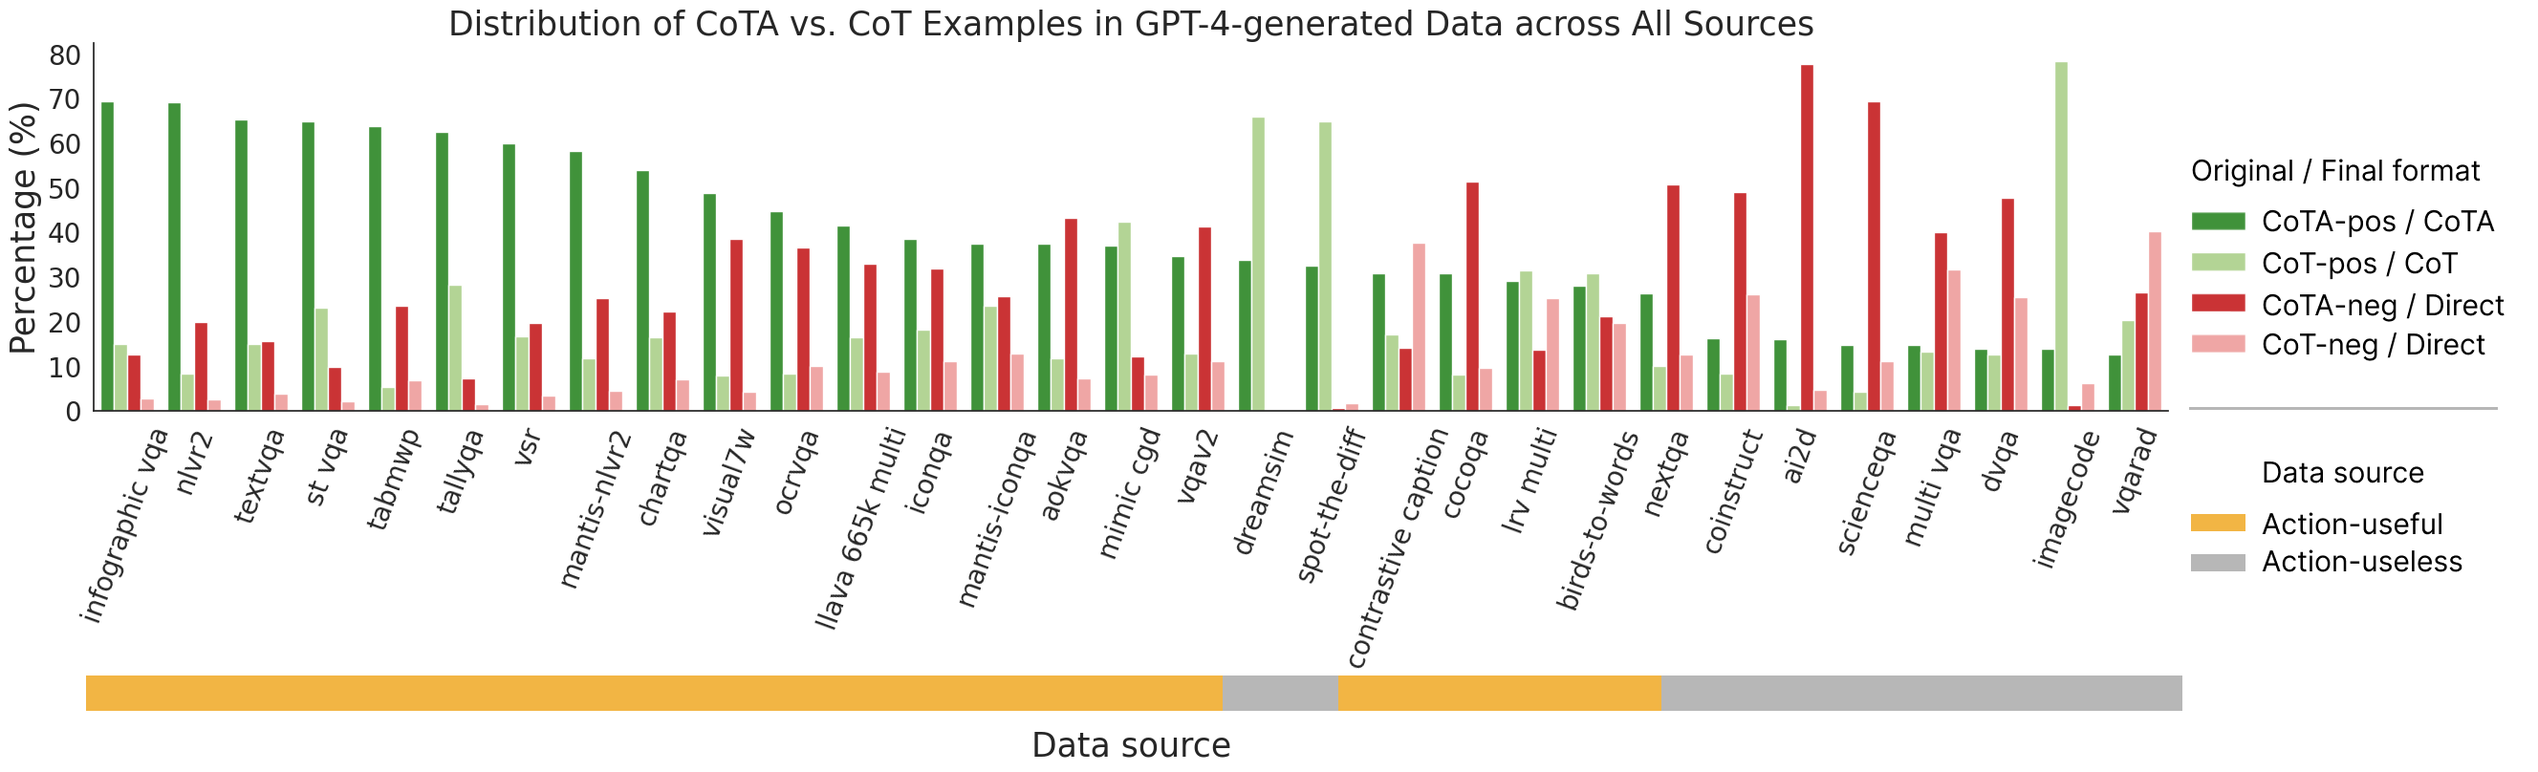
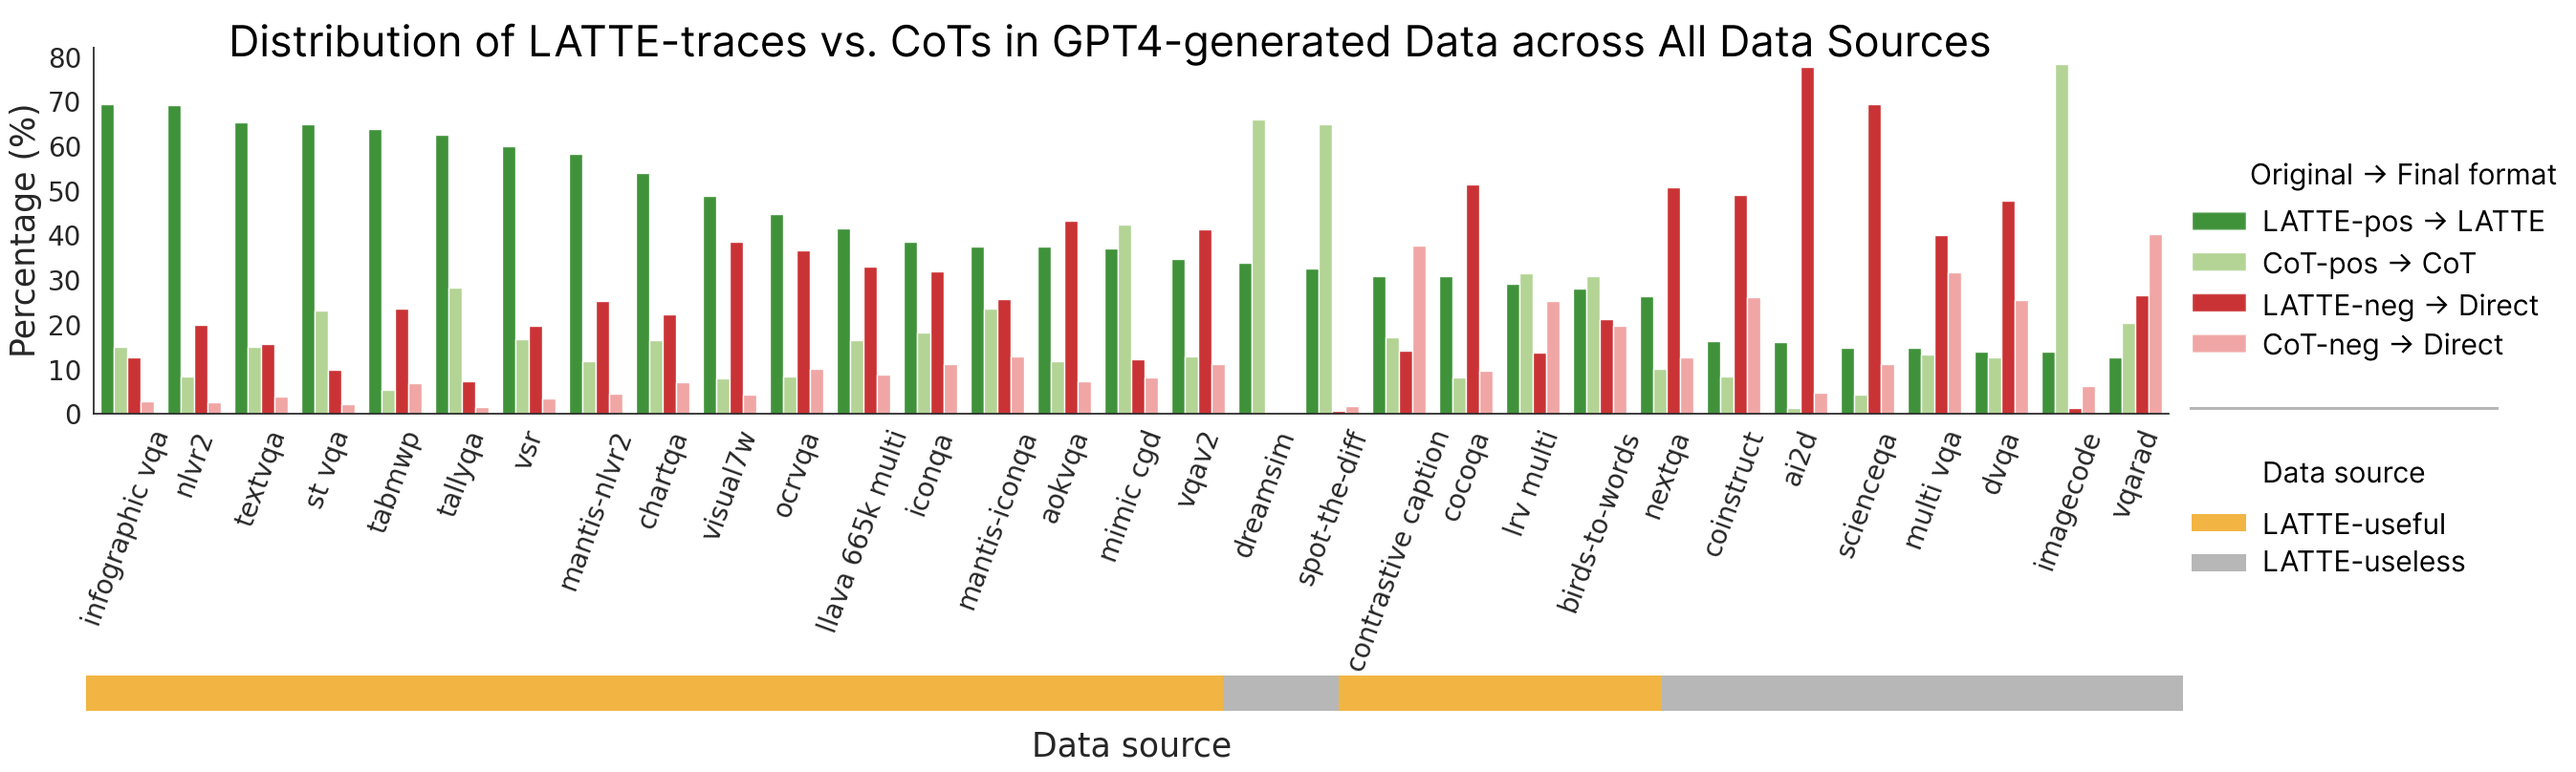
updated website

diff --git a/index.html b/index.html
@@ -3,10 +3,10 @@
 <head>
   <meta charset="utf-8">
   <meta name="description"
-        content="🌮TACO: Learning Multi-modal Action Models with Synthetic Chains-of-Thought-and-Action">
-  <meta name="keywords" content="taco, multi-model model, agent, synthetic data">
+        content="LATTE: Learning to Think with Vision Specialists">
+  <meta name="keywords" content="multi-modal model, agent, synthetic data">
   <meta name="viewport" content="width=device-width, initial-scale=1">
-  <title>TACO</title>
+  <title>LATTE</title>
 
   <!-- Global site tag (gtag.js) - Google Analytics -->
   <script async src="https://www.googletagmanager.com/gtag/js?id=G-PYVRSFMDRL"></script>
@@ -63,7 +63,7 @@
   </div>
   <div class="navbar-menu">
     <div class="navbar-start" style="flex-grow: 1; justify-content: center;">
-      <a class="navbar-item" href="https://keunhong.com">
+      <a class="navbar-item" href="https://zixianma.github.io/">
       <span class="icon">
           <i class="fas fa-home"></i>
       </span>
@@ -96,14 +96,13 @@
     <div class="container is-max-desktop">
       <div class="columns is-centered">
         <div class="column has-text-centered">
-            <h1 class="title is-1 publication-title is-bold">
-              <img src="./static/images/taco.png" style="width:1em;vertical-align: middle" alt="Logo">
-              <span  style="vertical-align: middle">TACO</span>
+            <h1 class="subtitle is-1 publication-title is-bold">
+              <img src="./static/images/latte.png" style="width:1em;vertical-align: middle" alt="Logo">
+              <span  style="vertical-align: middle">LATTE </br>LeArning to Think wiTh Vision SpEcialists</span>
             </h1>
-
-            <h1 class="subtitle is-3 publication-title">
+            <!-- <h1 class="subtitle is-3 publication-title">
               Learning Multi-modal Action Models </br> with Synthetic Chains-of-Thought-and-Action 
-            </h1>
+            </h1> -->
              
           <div class="is-size-5 publication-authors">
             <span class="author-block">
@@ -220,9 +219,10 @@
   <div class="container is-max-desktop">
     <div class="hero-body">
       <!-- <h2 class=" title is-3">How does it work?</h2> -->
-      <video controls="" height="100%" poster="./static/videos/video_thumbnail.png">
+       <img src="./static/images/framework.png" alt="teaser image" class="is-fullwidth">
+      <!-- <video controls="" height="100%" poster="./static/videos/video_thumbnail.png">
         <source src="./static/videos/taco_video.mp4#t=7.0" fetchpriority="high" type="video/mp4">
-      </video>
+      </video> -->
     </div>
   </div>
 </section>
@@ -235,16 +235,9 @@
         <h2 class="title is-3">Abstract</h2>
         <div class="content has-text-justified">
           <p class="subtitle">
-            We present TACO, a family of multi-modal large action models designed to improve performance on such complex, multi-step and multi-modal tasks. 
-            During inference, TACO produces chains-of-thought-and-action (CoTA), executes intermediate steps by invoking external tools such as OCR, 
-            depth estimation and calculator, then integrates both the thoughts and action outputs to produce coherent responses.
-            To train TACO, we create a large dataset of 1M+ synthetic CoTA traces generated with GPT-4o and Python programs. 
-            We then experiment with various data filtering and mixing techniques and obtain a final subset of 293K high-quality CoTA examples.  
-            This dataset enables TACO to learn complex reasoning and action paths, surpassing existing models trained on instruct tuning data with 
-            only direct answers. Our model TACO outperforms the instruction-tuned baseline across 8 benchmarks, achieving a 3.6% 
-            improvement on average, with gains up to 15% in MMVet tasks involving OCR, mathematical reasoning and spatial reasoning. 
-            Training on high-quality CoTA traces sets a new standard for complex multi-modal reasoning, highlighting the need for structured, 
-            multi-step instruction tuning in advancing open-source mutli-modal models' capabilities.
+           While open-source vision-language models perform well on simple question-answering, they
+            still struggle with complex questions that require both perceptual and reasoning capabilities. 
+            We propose LATTE, a family of vision-language models that have LeArned to Think wiTh vision spEcialists. By offloading perception to state-of-the-art vision models, our approach enables vision-language models to focus solely on reasoning over high-quality per-ceptual information. To train LATTE, we synthesize and filter a large dataset of 273K multi-modal reasoning traces over perceptual outputs of vision specialists. LATTE trained on this data achieves significant gains over baselines across 6 benchmarks covering both perception and reasoning abilities. Ablation studies reveal that the effectiveness of multi-modal reasoning traces depends on the data sources, formats, and quality of thoughts.
           </p>
         </div>
       </div>
@@ -258,8 +251,9 @@
     <div class="hero-body">
       <img src="./static/images/teaser.png">
       <p class="subtitle">
-        Figure 1. TACO outputs a Chain-of-Thought-and-Action (CoTA) and answers challenging questions based on the thoughts and action outputs, whereas existing multi-modal
-        large language models can only output direct answers and often fail to reach the correct answers.
+        Figure 1. <b>Example outputs of LATTE vs. SoTA multi-modal large language models.</b> Our LATTE model is able to answer challenging
+visual questions by reasoning over perceptual information output by vision specialists. It does so by generating a reasoning trace over
+vision specialists' outputs and producing a final answer based on its reasoning.
       </p>    
       <!-- <video autoplay muted loop height="100%">
         <source src="./static/videos/mnms_video_hd.mp4"
@@ -316,7 +310,7 @@
     <!-- <h1 class="title is-1 mathvista"><img src="static/images/mathvista.png" style="width:1.0em;vertical-align: middle" alt="Logo"/>MathVista Dataset</h1> -->
     <h1 class="title is-1">
       <!-- <img src="static/images/mnms_green_single.png" style="width:1em;vertical-align: middle" alt="Logo" /> -->
-      <span style="vertical-align: middle">CoTA Dataset</span>
+      <span style="vertical-align: middle">LATTE Traces</span>
     </h1>
   </div>
 </section>
@@ -326,33 +320,33 @@
     <div class="columns is-centered mt-3">
       <div class="column is-four-fifths has-text-centered content">
         <!-- <img src="static/videos/data_gen.gif"/> -->
-        <h2 class="title is-3">CoTA Data Generation</h2>
+        <h2 class="title is-3">LATTE-traces Generation</h2>
         <div class="content has-text-justified">
           <img src="./static/images/data_gen.png" alt="dataset generation method">
       <p class="subtitle has-text-centered">
-        Figure 2. We illustrate our model-based data generation (top) and programmatic generation (bottom) pipelines.
+        Figure 2. <b>Data Generation.</b>
       </p>
       <p class="subtitle has-text-justified">
-        In model-based generation, we take existing image and QA pairs as inputs and prompt GPT-4o to <b>Generate</b> either a chain-of-thought-and-action (CoTA) or chain-of-thought (CoT) 
-        <i>without</i> actions to answer the questions. Then, we <b>Verify</b> that the chains lead to correct 
-        final answers and <b>Parse</b> successfully; if not, we convert them into the direct answer (Direct)
-        format with groundtruth answers. 
+        We illustrate our model-based data generation (top) and programmatic generation (bottom) pipelines. In
+        model-based generation, we take existing image and QA pairs as inputs and prompt a large language model (i.e. GPT-4o) to generate
+        either a LATTE-trace or chain-of-thought (CoT) to answer the questions. Then, we verify that the chains lead to correct final answers and
+        parse successfully; if not, we convert them into the direct answer (Direct) format with groundtruth answers. 
       </p> 
         <p class="subtitle has-text-justified">
-        In programmatic generation, we first <b>Annotate</b> images with 
-        human labelers or models, and then use the dense annotations to fill in manually written templates and 
-        <b>Generate</b> QA and the corresponding CoTA with Python programs.
+          In programmatic generation,
+        we first annotate images with human labelers and models, and then use the dense annotations to fill in manually written templates and
+        generate QA and the corresponding LATTE-trace with Python programs.
       </p>
 
-      <h2 class="title is-3 has-text-centered mt-6">CoTA Data Distribution</h2>
+      <h2 class="title is-3 has-text-centered mt-6">Data Distribution</h2>
          
           <div class="content">
             <img src="static/images/cota_cot_dist.png" alt="data distribution"/>
             <p class="subtitle">
-              Figure 3. We visualize the frequency of data formats (i.e. CoTA-pos/neg, and CoT-pos/neg) in the original
-               GPT-4-generated data and in our final training data (i.e. CoTA, CoT, or Direct) in each dataset 
-               across all data sources. We also highlight the Action-useless (i.e. datasets where % of CoT-pos - CoTA-pos > 
-               10 or % of CoTA-neg - CoTA-pos > 10) vs. Action-useful datasets.
+              Figure 3. <b>Distribution of data formats and sources.</b> We visualize the frequency of data formats (i.e. LATTE-pos/neg, and CoT-pos/neg,
+pos = correct final answers, neg = incorrect) in the original GPT-4-generated data and in our training data (i.e. LATTE-trace, CoT, or
+Direct) across all data sources. We also highlight the LATTE-useless (i.e. % of CoT-pos - LATTE-pos > 10 or % of LATTE-neg -
+LATTE-pos > 10) vs. LATTE-useful datasets.
             </p>
           </div>
         </div>
@@ -377,12 +371,7 @@
         <!-- <h2 class="title is-3">Overview</h2> -->
         <div class="content">
           <p class="subtitle">
-            We perform extensive experiments with 3 open-source
-            multi-modal models and 9 data recipes on 8 benchmarks
-            to study the effectiveness of CoTA data compared to
-            instruction-tuning data with only direct answers, and to in-
-            vestigate whether data filtering and programmatic data can
-            lead to further performance gains. We highlight three main takeaways below:
+            We perform extensive experiments with small multi-modal models and 9 data recipes on 6 benchmarks to study the effectiveness of LATTE-traces in enabling models to reason with vision specialists on diverse vision-language tasks. 
           </p>
         </div>
       </div>
@@ -402,13 +391,17 @@
               thought-and-action (CoTA) prompt, open-source multi-modal models lag behind and fail to generate CoTA with few-shot prompting.
             </p> -->
             <h3 class=""> <b>Takeaway 1: </b>
-              Fine-tuning with CoTA data elicits multi-modal language models' reasoning and action calling abilities and significantly boosts their performance (i.e. CoTA finetuned vs. CoTA in Figure 4); 
-            <img src="static/images/taco_vs_baselines.png" alt="data distribution"/>
+              LATTE leads to substantial gains compared to vanilla instruction-tuning on both perception and reasoning benchmarks, whereas other distillation baselines result in smaller gains or even degradation on some perception tasks. 
+            <img src="static/images/latte_vs_distillation.png" alt="latte vs vanilla it results"/>
             <p class="subtitle has-text-centered">
-              Figure 4. Model's average accuracy before and after being finetuned with Direct Answers vs. CoTA data  
+              Table 1. <b>LATTE vs. Baselines on Perception and Reasoning Benchmarks.</b> 
+            </p>
+            <img src="static/images/scaling_results.png" alt="results of best cota data recipe"/>
+            <p class="subtitle has-text-centered">
+              Figure 1. <b>Performance of LATTE vs. Baselines across Training Data Scales. </b>
             </p>
                 <h3 class=""> <b>Takeaway 2: </b>
-                Compared to the instruction-tuned baseline trained with only direct answers, TACO improves by 1-4% on average across all benchmarks (i.e. CoTA finetuned vs. Direct finetuned in Figure 4).
+                Our method beats the vanilla instruction-tuning baseline on average across all benchmarks regardless of the base model and checkpoint, with significant gains of 10-16% on MMVet.
                </h3>
           </div>
       </div>
@@ -418,15 +411,15 @@
     <div class="columns is-centered mt-3">
       <div class="column is-four-fifths  content">
           <div class="content">
-            <img src="static/images/table2.png" alt="results of best cota data recipe"/>
+            <img src="static/images/latte_vs_vanilla_it.png" alt="results of best cota data recipe"/>
             <p class="subtitle has-text-centered">
-              Table 1. Models' accuracy on all benchmarks after being finetuned with the best data recipe
+              Table 2. <b>LATTE vs. Vanilla IT with Different Models.</b>
             </p>
-           <img src="static/images/taco_vs_baselines_mmvet.png" alt="data distribution"/>
+           <img src="static/images/error_analysis.png" alt="data distribution"/>
             <p class="subtitle has-text-centered">
-              Figure 5. Model's accuracy on MMVet after being finetuned with Direct Answers vs. CoTA data  
+              Figure 2. <b>Qualitative analysis.</b> Example outputs of VPD, LLaVA-CoT vs. LATTE on BLINK.
             </p>
-              <h3 class=""> <b>Takeaway 3: </b> Takeaway 2 holds regardless of model backbones and checkpoints (Table 1), with significant gains of up to 20% on MMVet (Figure 5). 
+              <h3 class=""> <b>Takeaway 3: </b> LATTE performs better in fine-grained perception tasks such as the counting questions in BLINK, while VPD and LLaVA-CoT tend to hallucinate and make perceptual errors.
           </div>
       </div>
     </div>
